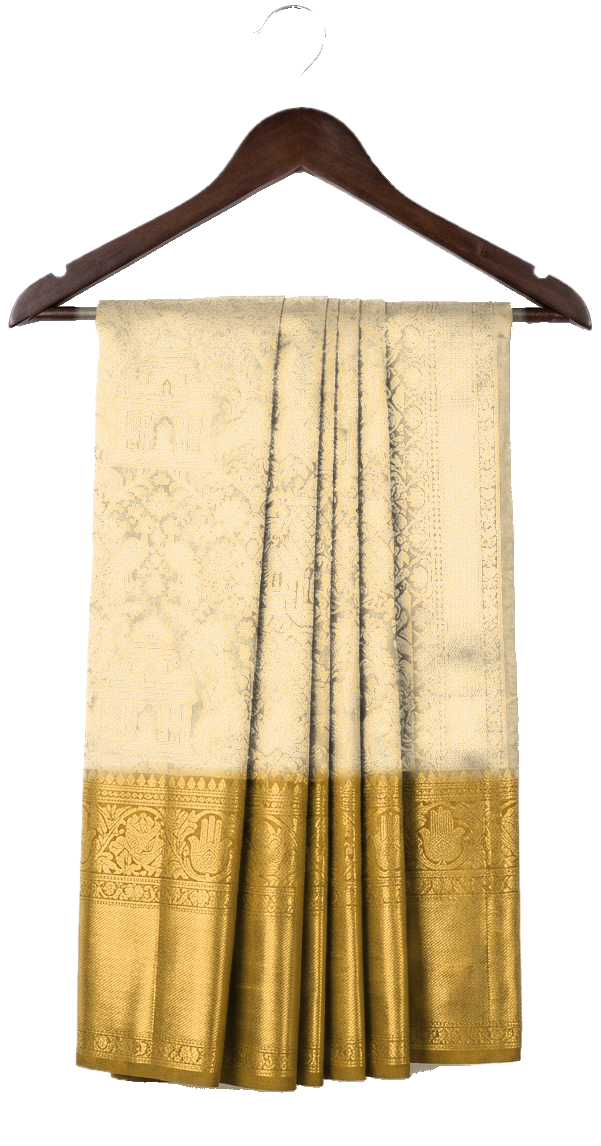
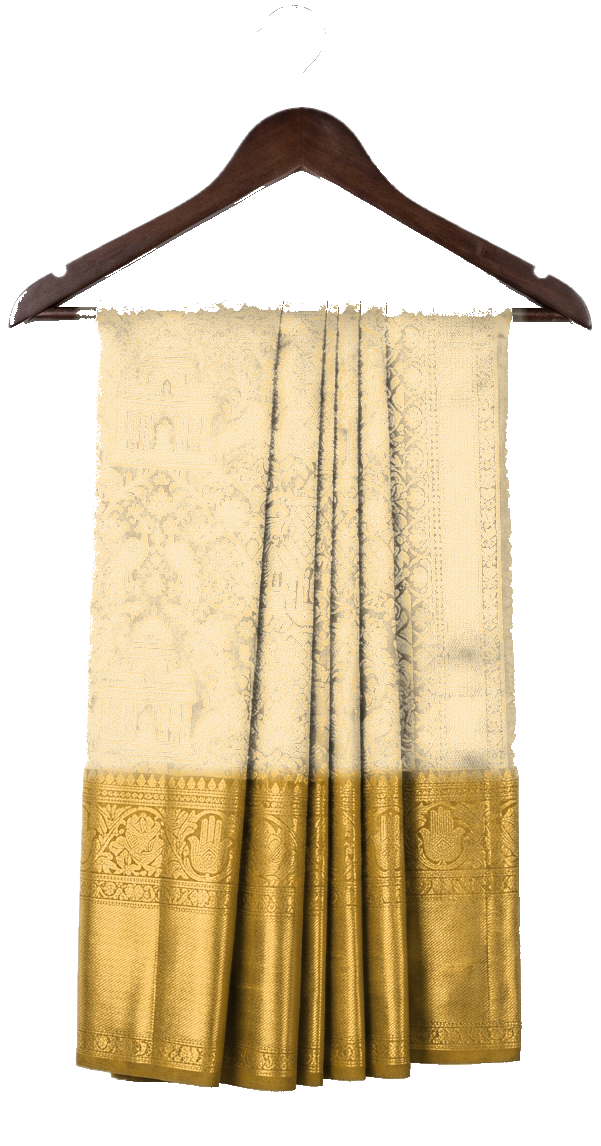
fix(weave): deep-defringe warm beige studio shadow fringe on all rack cutouts

diff --git a/src/components/TheWeaveFooter.tsx b/src/components/TheWeaveFooter.tsx
@@ -333,12 +333,12 @@ export default function TheWeaveFooter() {
 
                     <div className="flex items-center gap-2.5 shrink-0">
                       {/* Clean Ivory Studio Drape Inset Preview Card */}
-                      <div className="relative w-14 h-20 sm:w-16 sm:h-22 rounded-2xl bg-[#FAF7F2]/95 border border-[#E8C574]/60 shadow-[0_10px_25px_rgba(0,0,0,0.45)] p-1.5 overflow-hidden transition-transform duration-500 group-hover:scale-105">
+                      <div className="relative w-16 h-24 sm:w-[74px] sm:h-[104px] rounded-2xl bg-[#FAF7F2]/95 border border-[#E8C574]/65 shadow-[0_10px_25px_rgba(0,0,0,0.45)] p-1.5 overflow-hidden transition-transform duration-500 group-hover:scale-105">
                         <Image
                           src={item.cutout}
                           alt={`${item.name} studio drape`}
                           fill
-                          sizes="72px"
+                          sizes="80px"
                           className="object-contain p-1"
                         />
                       </div>
